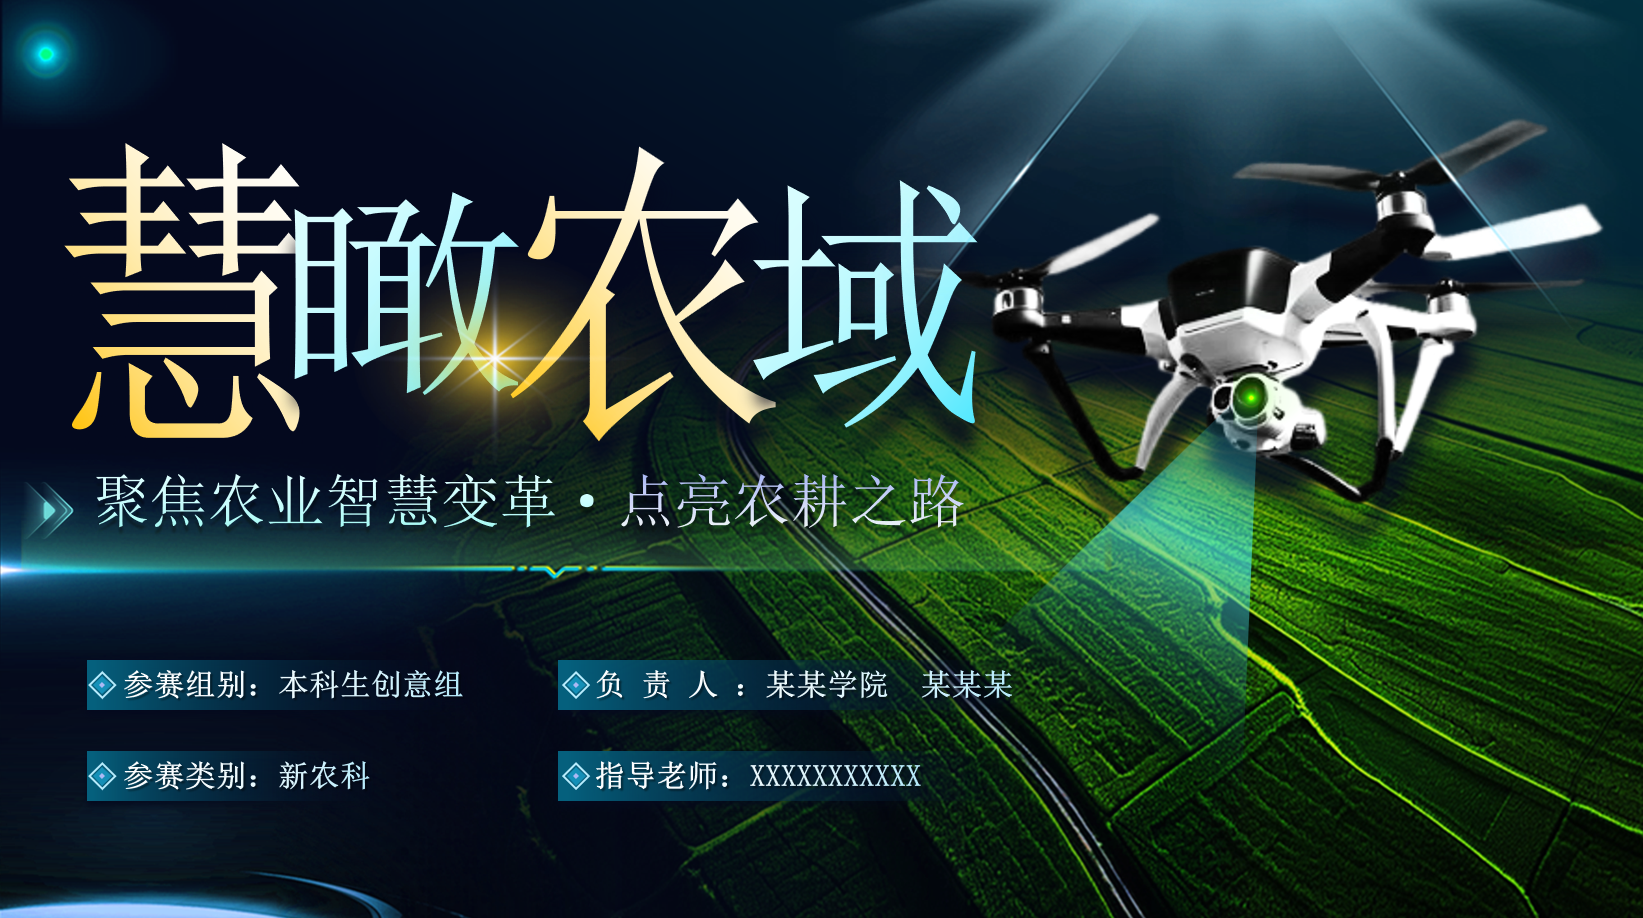
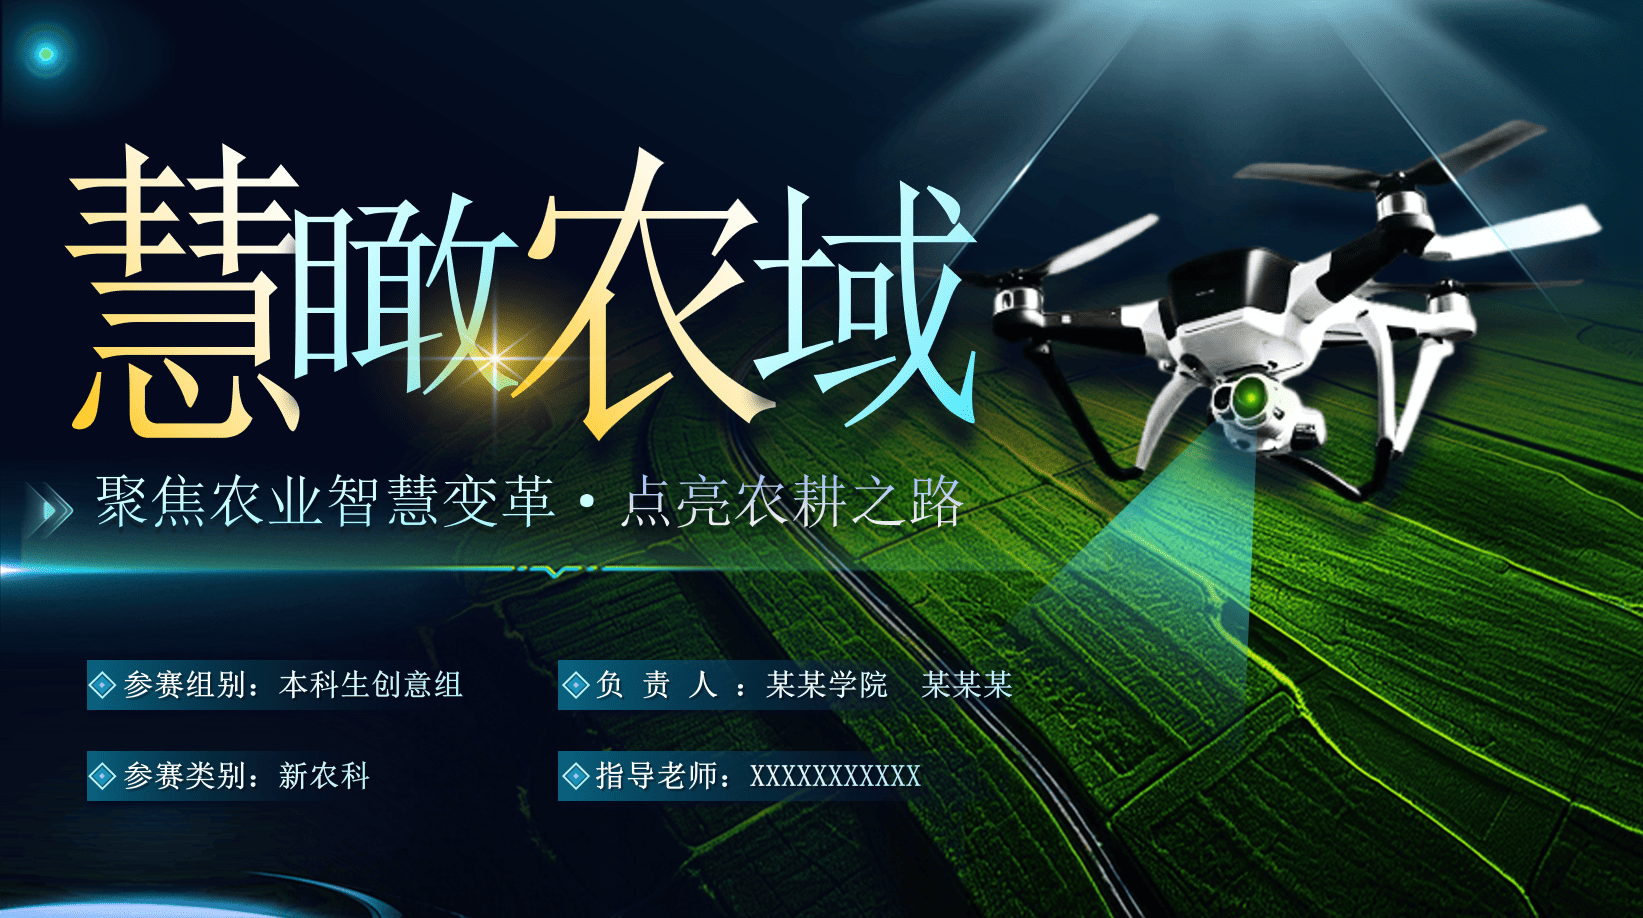
图片全面升级为 WebP：首屏与全部图片体积减半，证书改为立即加载，头像预加载；坦克大战背景图与校园场景图压缩（1MB+ 降至约230KB）；同步用户新压缩的 PPT 源图

diff --git a/index.html b/index.html
@@ -4,6 +4,7 @@
     <meta charset="UTF-8">
     <meta name="viewport" content="width=device-width, initial-scale=1.0, maximum-scale=1.0, user-scalable=yes">
     <title>周帅杭 · 能源致远，动力求索</title>
+    <link rel="preload" as="image" href="optimized/avatar.webp" fetchpriority="high">
     <style>
         /* ===== 极客星空·设计令牌 ===== */
         * {
@@ -2450,7 +2451,7 @@ html{background:var(--bg)}body{background:radial-gradient(circle at 82% 8%,rgba(
                     <div class="avatar-orbit">
                         <span class="avatar-orbit-ring ring-a"></span><span class="avatar-orbit-ring ring-b"></span><span class="avatar-orbit-ring ring-c"></span>
                         <span class="orbit-tick t1"></span><span class="orbit-tick t2"></span><span class="orbit-tick t3"></span>
-                        <img class="hero-avatar img-skeleton" src="86af336cd3ed9a3598b78bfc2b6a09fc.jpg" alt="个人头像" fetchpriority="high" decoding="async" onload="this.classList.remove('img-skeleton')">
+                        <img class="hero-avatar img-skeleton" src="optimized/avatar.webp" alt="个人头像" fetchpriority="high" decoding="async" onload="this.classList.remove('img-skeleton')">
                     </div>
                     <div class="orbit-caption"><span>FIELD NOTE 01</span><b>ENERGY / MOTION</b></div>
                 `;
@@ -2507,9 +2508,9 @@ html{background:var(--bg)}body{background:radial-gradient(circle at 82% 8%,rgba(
                 sec.innerHTML = `<div class="section-kicker">PRACTICE RECORD / FIELD NOTES</div><h2 class="section-title">实践记录</h2><p class="section-lead">从知识整理、视觉表达，到 AI Coding：每一次动手，都是把想法推进一格。</p>`;
                 const listContainer = el('div', 'exp-list', '');
                 const expData = [
-                    { title: '个人知识库搭建', role: '工程知识结构化', date: '2025.09 — 至今', desc: '用 Obsidian 记录课程、实验与问题，把分散的知识整理成可以复用的学习系统。', tags: ['Obsidian', '知识管理', '系统思维'], img: 'optimized/experience-knowledge.jpg' },
-                    { title: '剪辑与内容表达', role: '视觉生产工作流', date: '2025.11 — 至今', desc: '用剪映完成选题、素材整理与剪辑输出，让专业内容更容易被看懂、被记住。', tags: ['剪映', '视觉叙事', '内容运营'], img: 'optimized/experience-editing.jpg' },
-                    { title: 'AI Coding / 健康饮食网站', role: '数字化系统实践', date: '2026.03', desc: '使用 AI Coding 完成从需求拆解到页面落地，把数据、建议与交互组织成可使用的网站。', tags: ['AI Coding', 'Web 开发', '产品思维'], img: 'optimized/experience-health.jpg' }
+                    { title: '个人知识库搭建', role: '工程知识结构化', date: '2025.09 — 至今', desc: '用 Obsidian 记录课程、实验与问题，把分散的知识整理成可以复用的学习系统。', tags: ['Obsidian', '知识管理', '系统思维'], img: 'optimized/experience-knowledge.webp' },
+                    { title: '剪辑与内容表达', role: '视觉生产工作流', date: '2025.11 — 至今', desc: '用剪映完成选题、素材整理与剪辑输出，让专业内容更容易被看懂、被记住。', tags: ['剪映', '视觉叙事', '内容运营'], img: 'optimized/experience-editing.webp' },
+                    { title: 'AI Coding / 健康饮食网站', role: '数字化系统实践', date: '2026.03', desc: '使用 AI Coding 完成从需求拆解到页面落地，把数据、建议与交互组织成可使用的网站。', tags: ['AI Coding', 'Web 开发', '产品思维'], img: 'optimized/experience-health.webp' }
                 ];
                 expData.forEach(item => {
                     const card = el('div', 'exp-card-new', `
@@ -2560,7 +2561,7 @@ html{background:var(--bg)}body{background:radial-gradient(circle at 82% 8%,rgba(
                     <h3 class="certificate-heading">资质与证明</h3>
                     <div class="cert-imgs">${certificateImages.map(number => `
                         <button type="button" class="cert-img-wrap" aria-label="查看证书 ${number}">
-                            <img src="optimized/certificate-${number}.jpg" class="cert-img img-skeleton" loading="lazy" decoding="async" onload="this.classList.remove('img-skeleton')" alt="证书 ${number}">
+                            <img src="optimized/certificate-${number}.webp" class="cert-img img-skeleton" decoding="async" onload="this.classList.remove('img-skeleton')" alt="证书 ${number}">
                         </button>
                     `).join('')}</div>
                 `);
@@ -2582,9 +2583,9 @@ html{background:var(--bg)}body{background:radial-gradient(circle at 82% 8%,rgba(
                         <p class="ai-modal-subtitle">+ AI PROGRAMMING +</p>
                         <div class="modal-image-list">
                             <!-- 🌟 核心优化 4：弹窗内的图片利用原生懒加载+骨架屏保护，防止没点开弹窗时抢占主页网速 -->
-                            <img data-src="optimized/ai-lobster.jpg" class="modal-img img-skeleton" loading="lazy" decoding="async" onload="this.classList.remove('img-skeleton')" alt="龙虾" ondblclick="openLightbox(this.src)">
-                            <img data-src="optimized/ai-news.jpg" class="modal-img img-skeleton" loading="lazy" decoding="async" onload="this.classList.remove('img-skeleton')" alt="资讯" ondblclick="openLightbox(this.src)">
-                            <img data-src="optimized/ai-workbuddy.jpg" class="modal-img img-skeleton" loading="lazy" decoding="async" onload="this.classList.remove('img-skeleton')" alt="WorkBuddy" ondblclick="openLightbox(this.src)">
+                            <img data-src="optimized/ai-lobster.webp" class="modal-img img-skeleton" loading="lazy" decoding="async" onload="this.classList.remove('img-skeleton')" alt="龙虾" ondblclick="openLightbox(this.src)">
+                            <img data-src="optimized/ai-news.webp" class="modal-img img-skeleton" loading="lazy" decoding="async" onload="this.classList.remove('img-skeleton')" alt="资讯" ondblclick="openLightbox(this.src)">
+                            <img data-src="optimized/ai-workbuddy.webp" class="modal-img img-skeleton" loading="lazy" decoding="async" onload="this.classList.remove('img-skeleton')" alt="WorkBuddy" ondblclick="openLightbox(this.src)">
                         </div>
                     </div>
                 `;
@@ -2601,8 +2602,8 @@ html{background:var(--bg)}body{background:radial-gradient(circle at 82% 8%,rgba(
                         <h1 class="ai-modal-title"><span class="ai-solid">PPT设计者</span><span class="ai-outline">PPT</span></h1>
                         <p class="ai-modal-subtitle">+ PPT DESIGNER +</p>
                         <div class="modal-image-list">
-                            <img data-src="optimized/ppt-1.jpg" class="modal-img img-skeleton" loading="lazy" decoding="async" onload="this.classList.remove('img-skeleton')" alt="慧瞰农域 PPT" ondblclick="openLightbox(this.src)">
-                            <img data-src="optimized/ppt-2.jpg" class="modal-img img-skeleton" loading="lazy" decoding="async" onload="this.classList.remove('img-skeleton')" alt="绿水青山 PPT" ondblclick="openLightbox(this.src)">
+                            <img data-src="optimized/ppt-1.webp" class="modal-img img-skeleton" loading="lazy" decoding="async" onload="this.classList.remove('img-skeleton')" alt="慧瞰农域 PPT" ondblclick="openLightbox(this.src)">
+                            <img data-src="optimized/ppt-2.webp" class="modal-img img-skeleton" loading="lazy" decoding="async" onload="this.classList.remove('img-skeleton')" alt="绿水青山 PPT" ondblclick="openLightbox(this.src)">
                         </div>
                     </div>
                 `;
@@ -2619,7 +2620,7 @@ html{background:var(--bg)}body{background:radial-gradient(circle at 82% 8%,rgba(
                         <h1 class="ai-modal-title"><span class="ai-solid">自媒体创作者</span><span class="ai-outline">自媒体</span></h1>
                         <p class="ai-modal-subtitle">+ MEDIA CREATOR +</p>
                         <div class="modal-image-list">
-                            <img data-src="optimized/media.jpg" class="modal-img img-skeleton" loading="lazy" decoding="async" onload="this.classList.remove('img-skeleton')" alt="自媒体展示" ondblclick="openLightbox(this.src)" >
+                            <img data-src="optimized/media.webp" class="modal-img img-skeleton" loading="lazy" decoding="async" onload="this.classList.remove('img-skeleton')" alt="自媒体展示" ondblclick="openLightbox(this.src)" >
                         </div>
                     </div>
                 `;

diff --git a/坦克大战.html b/坦克大战.html
@@ -179,9 +179,9 @@ const ctx = cv.getContext('2d');
 let W = 0, H = 0;
 const MARGIN = 44;              // 外圈钢墙厚度（也是地图边界）
 const bg = new Image();
-bg.src = 'background.png';
+bg.src = 'optimized/background.webp';
 const campus = new Image();
-campus.src = '校园场景.jpg';
+campus.src = 'optimized/campus.webp';
 
 /* ---------------------------- 坦克类型 ---------------------------- */
 const TANK_TYPES = {
